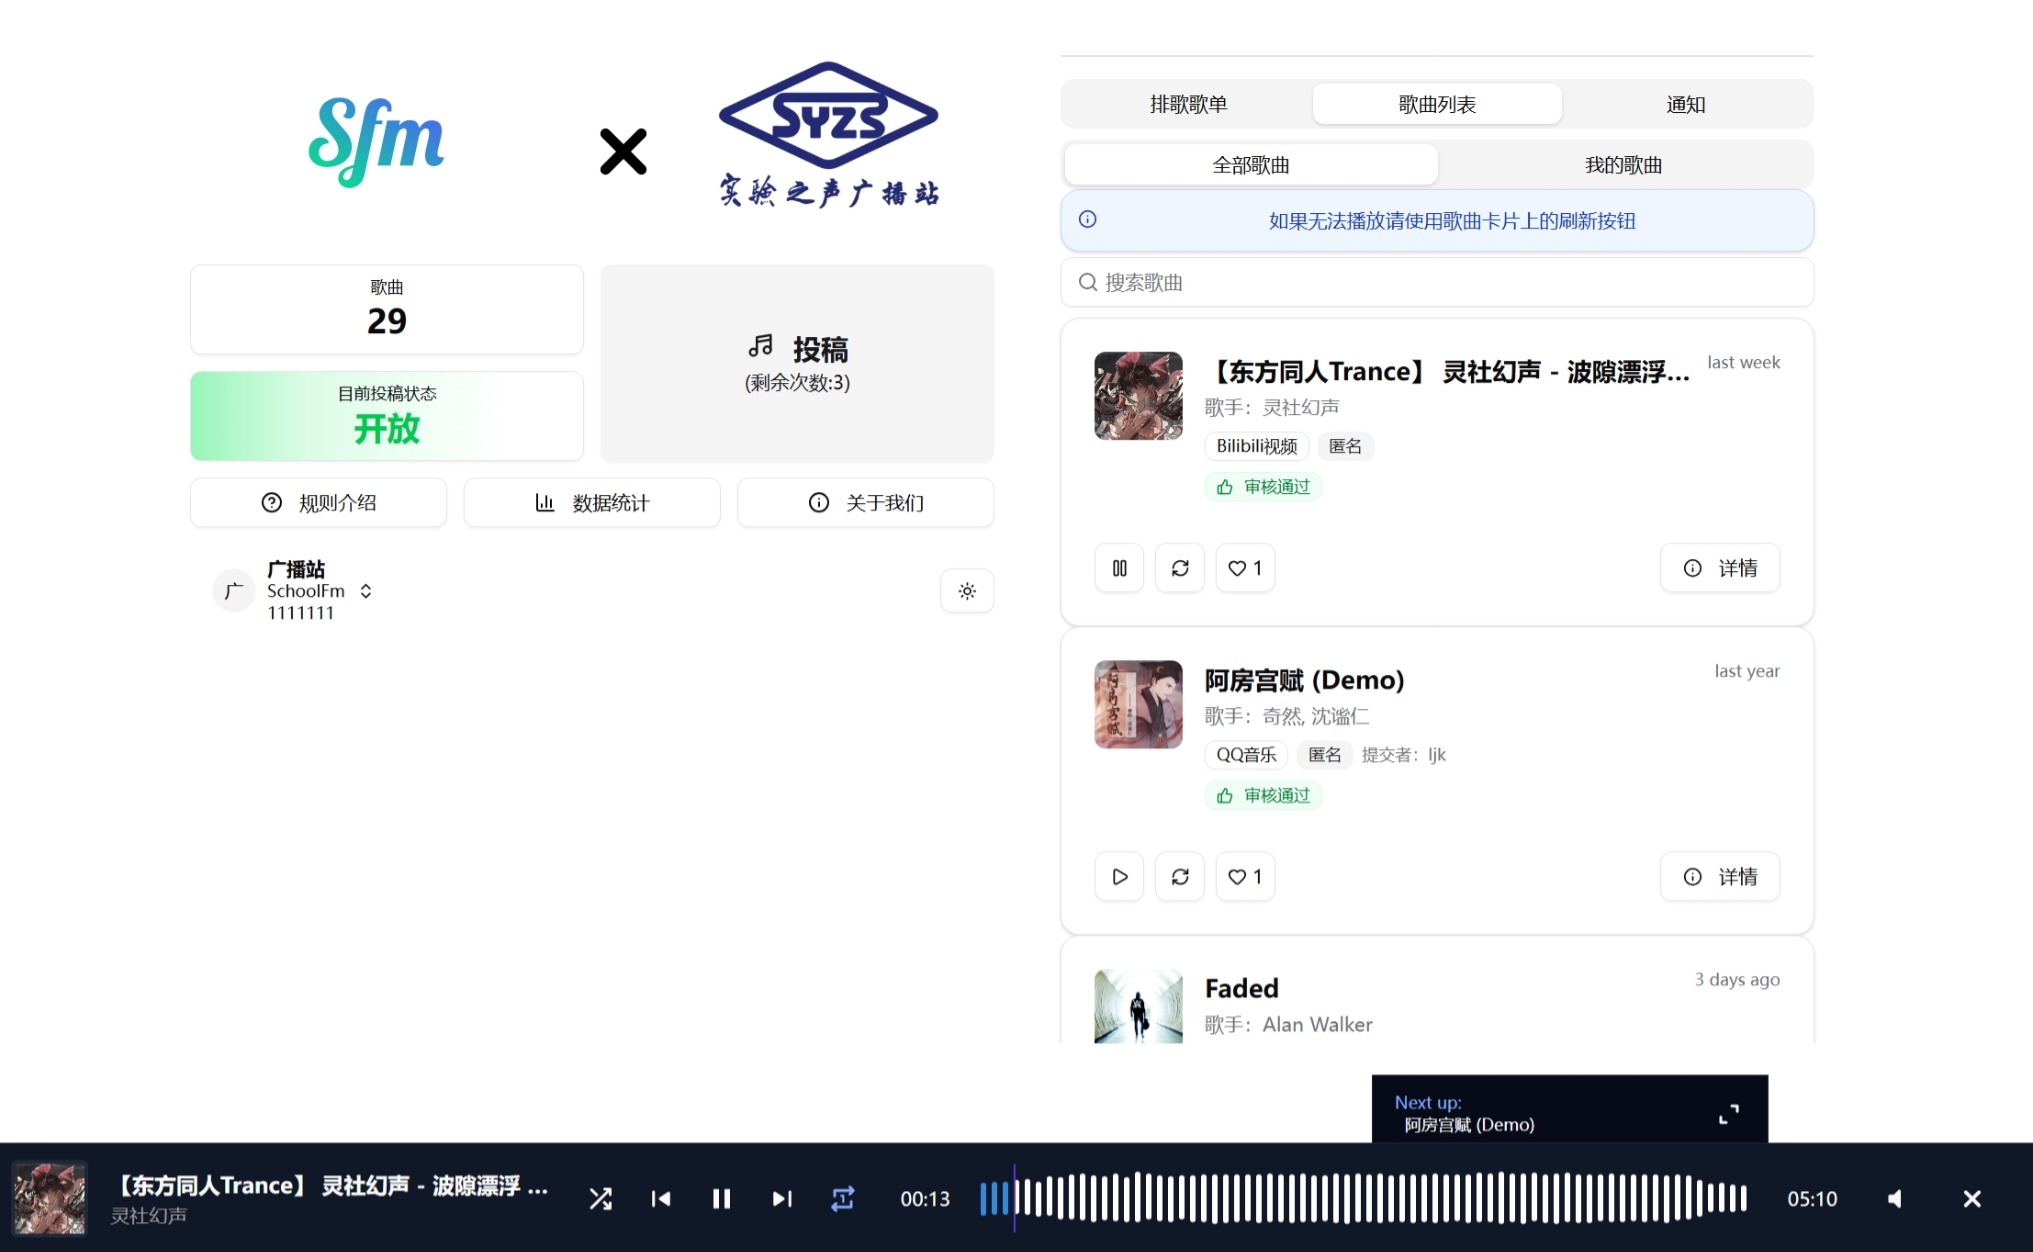
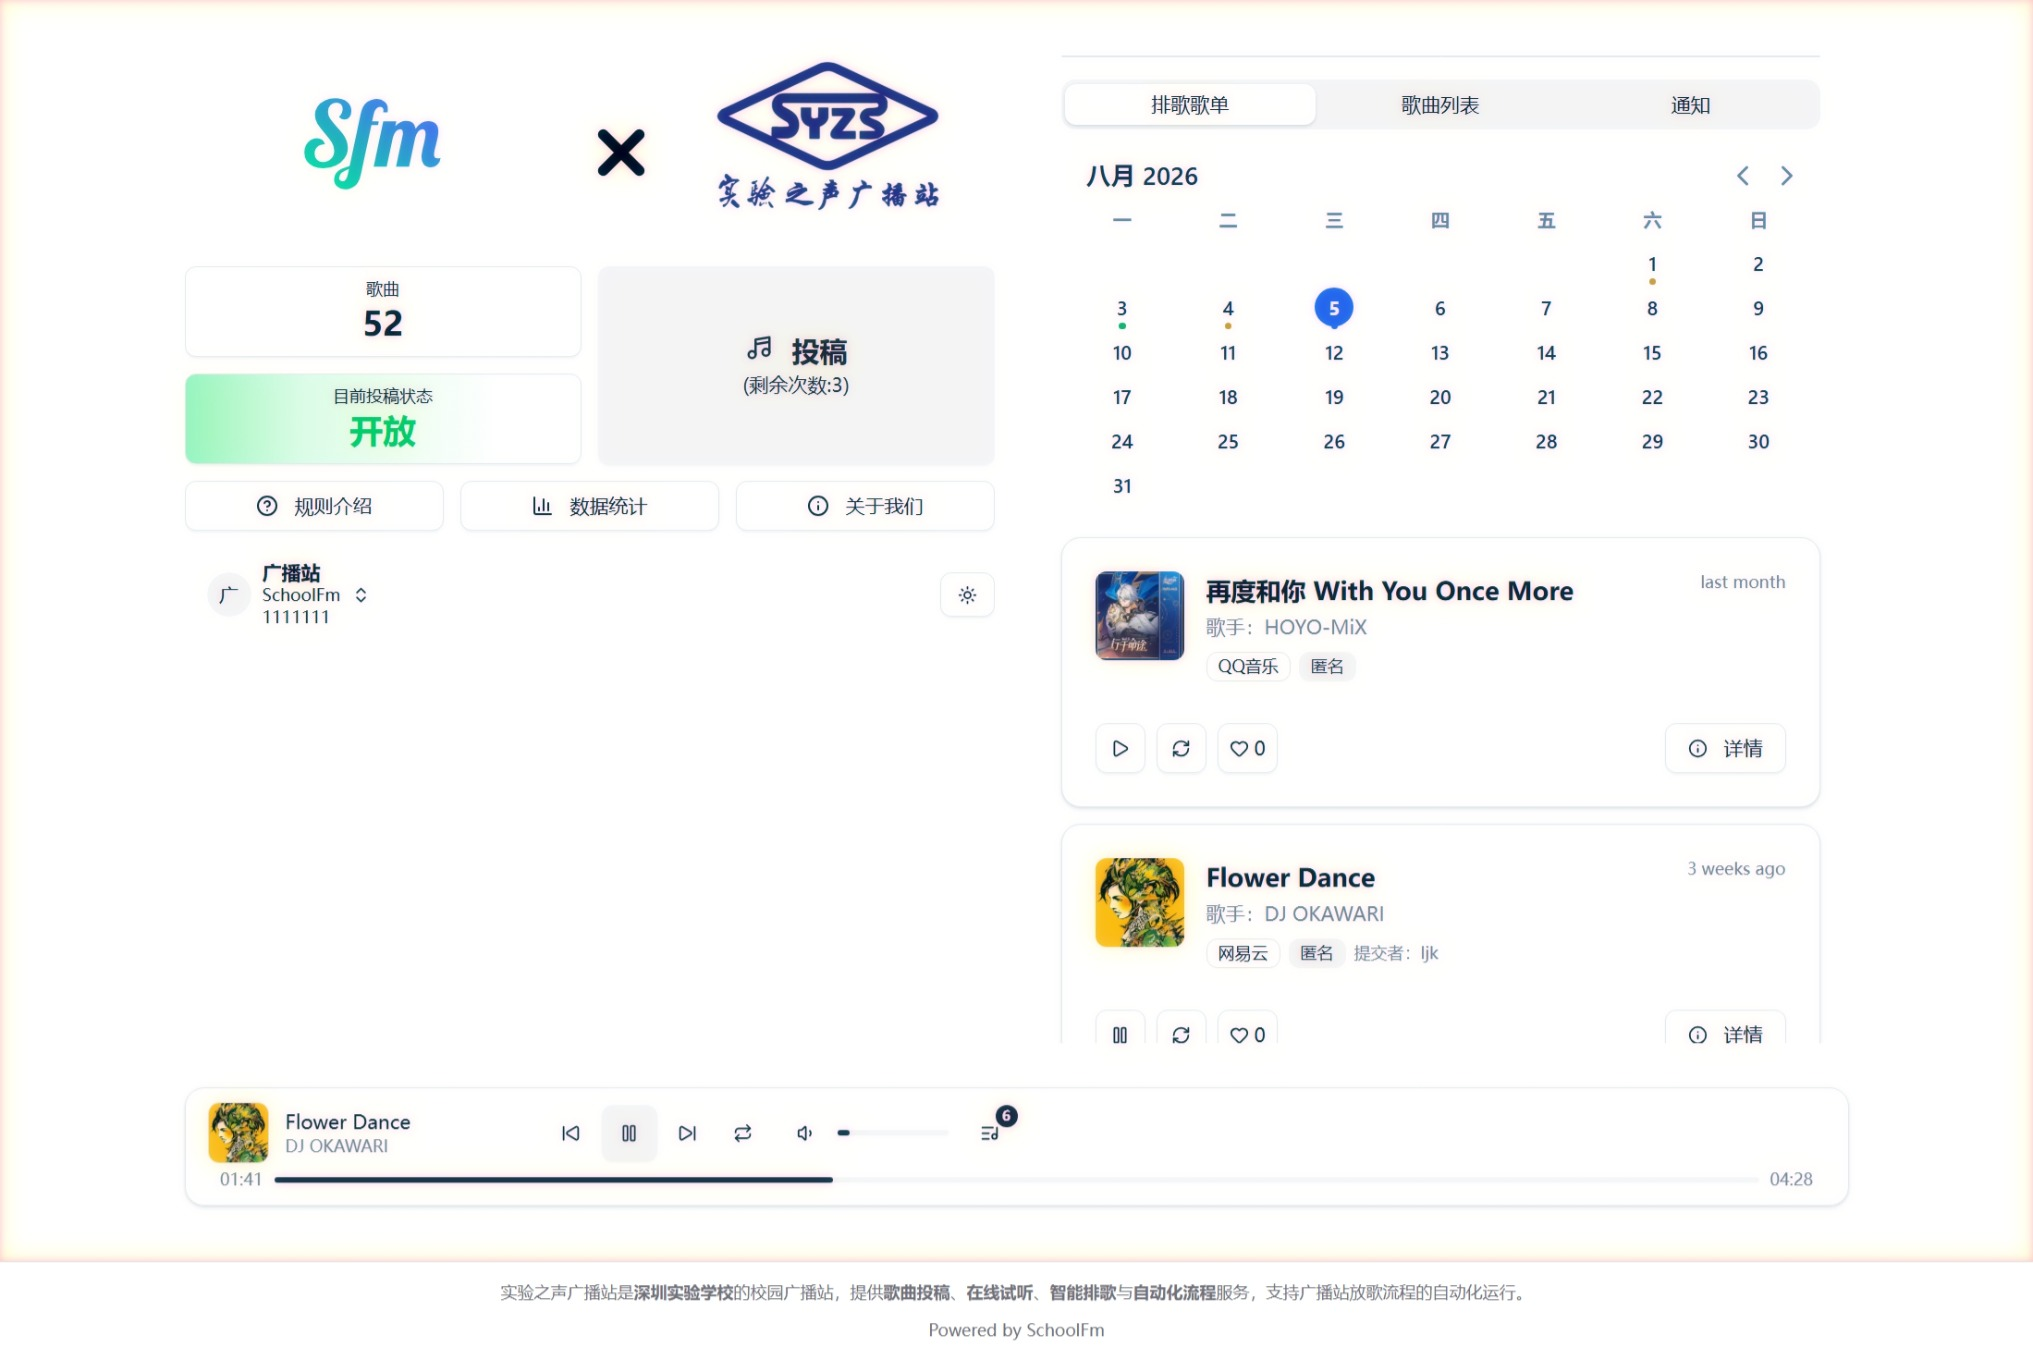
refactor: update packages and add baidu analysis

diff --git a/app/plugins/baidu-analytics.client.ts b/app/plugins/baidu-analytics.client.ts
@@ -1,0 +1,27 @@
+type Hmt = Array<Array<string | number>>;
+
+declare global {
+  interface Window {
+    _hmt?: Hmt;
+  }
+}
+
+export default defineNuxtPlugin((nuxtApp) => {
+  const baiduAnalyticsId = useRuntimeConfig().public.baiduAnalyticsId;
+  if (!baiduAnalyticsId) {
+    return;
+  }
+
+  const _hmt = (window._hmt = window._hmt || []);
+
+  // 异步加载百度统计脚本
+  const hm = document.createElement("script");
+  hm.async = true;
+  hm.src = `https://hm.baidu.com/hm.js?${baiduAnalyticsId}`;
+  document.head.appendChild(hm);
+
+  // SPA 路由切换时上报页面浏览
+  nuxtApp.hook("page:finish", () => {
+    _hmt.push(["_trackPageview", useRoute().path]);
+  });
+});

diff --git a/app/components/ui/range-calendar/RangeCalendarNextButton.vue b/app/components/ui/range-calendar/RangeCalendarNextButton.vue
@@ -2,7 +2,7 @@
 import type { RangeCalendarNextProps } from "reka-ui"
 import type { HTMLAttributes } from "vue"
 import { reactiveOmit } from "@vueuse/core"
-import { ChevronRight } from "lucide-vue-next"
+import { ChevronRight } from "@lucide/vue"
 import { RangeCalendarNext, useForwardProps } from "reka-ui"
 import { cn } from "@/lib/utils"
 import { buttonVariants } from '@/components/ui/button'

diff --git a/app/components/ui/range-calendar/RangeCalendarPrevButton.vue b/app/components/ui/range-calendar/RangeCalendarPrevButton.vue
@@ -2,7 +2,7 @@
 import type { RangeCalendarPrevProps } from "reka-ui"
 import type { HTMLAttributes } from "vue"
 import { reactiveOmit } from "@vueuse/core"
-import { ChevronLeft } from "lucide-vue-next"
+import { ChevronLeft } from "@lucide/vue"
 import { RangeCalendarPrev, useForwardProps } from "reka-ui"
 import { cn } from "@/lib/utils"
 import { buttonVariants } from '@/components/ui/button'

diff --git a/app/components/ui/calendar/CalendarNextButton.vue b/app/components/ui/calendar/CalendarNextButton.vue
@@ -2,7 +2,7 @@
 import type { CalendarNextProps } from "reka-ui"
 import type { HTMLAttributes } from "vue"
 import { reactiveOmit } from "@vueuse/core"
-import { ChevronRight } from "lucide-vue-next"
+import { ChevronRight } from "@lucide/vue"
 import { CalendarNext, useForwardProps } from "reka-ui"
 import { cn } from "@/lib/utils"
 import { buttonVariants } from '@/components/ui/button'

diff --git a/app/components/ui/calendar/CalendarPrevButton.vue b/app/components/ui/calendar/CalendarPrevButton.vue
@@ -2,7 +2,7 @@
 import type { CalendarPrevProps } from "reka-ui"
 import type { HTMLAttributes } from "vue"
 import { reactiveOmit } from "@vueuse/core"
-import { ChevronLeft } from "lucide-vue-next"
+import { ChevronLeft } from "@lucide/vue"
 import { CalendarPrev, useForwardProps } from "reka-ui"
 import { cn } from "@/lib/utils"
 import { buttonVariants } from '@/components/ui/button'

diff --git a/app/components/ui/resizable/ResizableHandle.vue b/app/components/ui/resizable/ResizableHandle.vue
@@ -2,7 +2,7 @@
 import type { SplitterResizeHandleEmits, SplitterResizeHandleProps } from "reka-ui"
 import type { HTMLAttributes } from "vue"
 import { reactiveOmit } from "@vueuse/core"
-import { GripVertical } from "lucide-vue-next"
+import { GripVertical } from "@lucide/vue"
 import { SplitterResizeHandle, useForwardPropsEmits } from "reka-ui"
 import { cn } from "@/lib/utils"
 

diff --git a/app/components/ui/carousel/CarouselNext.vue b/app/components/ui/carousel/CarouselNext.vue
@@ -1,7 +1,7 @@
 <script setup lang="ts">
 import type { WithClassAsProps } from "./interface"
 import type { ButtonVariants } from '@/components/ui/button'
-import { ArrowRight } from "lucide-vue-next"
+import { ArrowRight } from "@lucide/vue"
 import { cn } from "@/lib/utils"
 import { Button } from '@/components/ui/button'
 import { useCarousel } from "./useCarousel"

diff --git a/app/components/ui/carousel/CarouselPrevious.vue b/app/components/ui/carousel/CarouselPrevious.vue
@@ -1,7 +1,7 @@
 <script setup lang="ts">
 import type { WithClassAsProps } from "./interface"
 import type { ButtonVariants } from '@/components/ui/button'
-import { ArrowLeft } from "lucide-vue-next"
+import { ArrowLeft } from "@lucide/vue"
 import { cn } from "@/lib/utils"
 import { Button } from '@/components/ui/button'
 import { useCarousel } from "./useCarousel"

diff --git a/app/components/ui/checkbox/Checkbox.vue b/app/components/ui/checkbox/Checkbox.vue
@@ -2,7 +2,7 @@
 import type { CheckboxRootEmits, CheckboxRootProps } from "reka-ui"
 import type { HTMLAttributes } from "vue"
 import { reactiveOmit } from "@vueuse/core"
-import { Check } from "lucide-vue-next"
+import { Check } from "@lucide/vue"
 import { CheckboxIndicator, CheckboxRoot, useForwardPropsEmits } from "reka-ui"
 import { cn } from "@/lib/utils"
 

diff --git a/app/components/ui/command/CommandInput.vue b/app/components/ui/command/CommandInput.vue
@@ -2,7 +2,7 @@
 import type { ListboxFilterProps } from "reka-ui"
 import type { HTMLAttributes } from "vue"
 import { reactiveOmit } from "@vueuse/core"
-import { Search } from "lucide-vue-next"
+import { Search } from "@lucide/vue"
 import { ListboxFilter, useForwardProps } from "reka-ui"
 import { cn } from "@/lib/utils"
 import { useCommand } from "."

diff --git a/app/components/ui/select/SelectScrollDownButton.vue b/app/components/ui/select/SelectScrollDownButton.vue
@@ -2,7 +2,7 @@
 import type { SelectScrollDownButtonProps } from "reka-ui"
 import type { HTMLAttributes } from "vue"
 import { reactiveOmit } from "@vueuse/core"
-import { ChevronDown } from "lucide-vue-next"
+import { ChevronDown } from "@lucide/vue"
 import { SelectScrollDownButton, useForwardProps } from "reka-ui"
 import { cn } from "@/lib/utils"
 

diff --git a/app/components/ui/select/SelectTrigger.vue b/app/components/ui/select/SelectTrigger.vue
@@ -2,7 +2,7 @@
 import type { SelectTriggerProps } from "reka-ui"
 import type { HTMLAttributes } from "vue"
 import { reactiveOmit } from "@vueuse/core"
-import { ChevronDown } from "lucide-vue-next"
+import { ChevronDown } from "@lucide/vue"
 import { SelectIcon, SelectTrigger, useForwardProps } from "reka-ui"
 import { cn } from "@/lib/utils"
 
